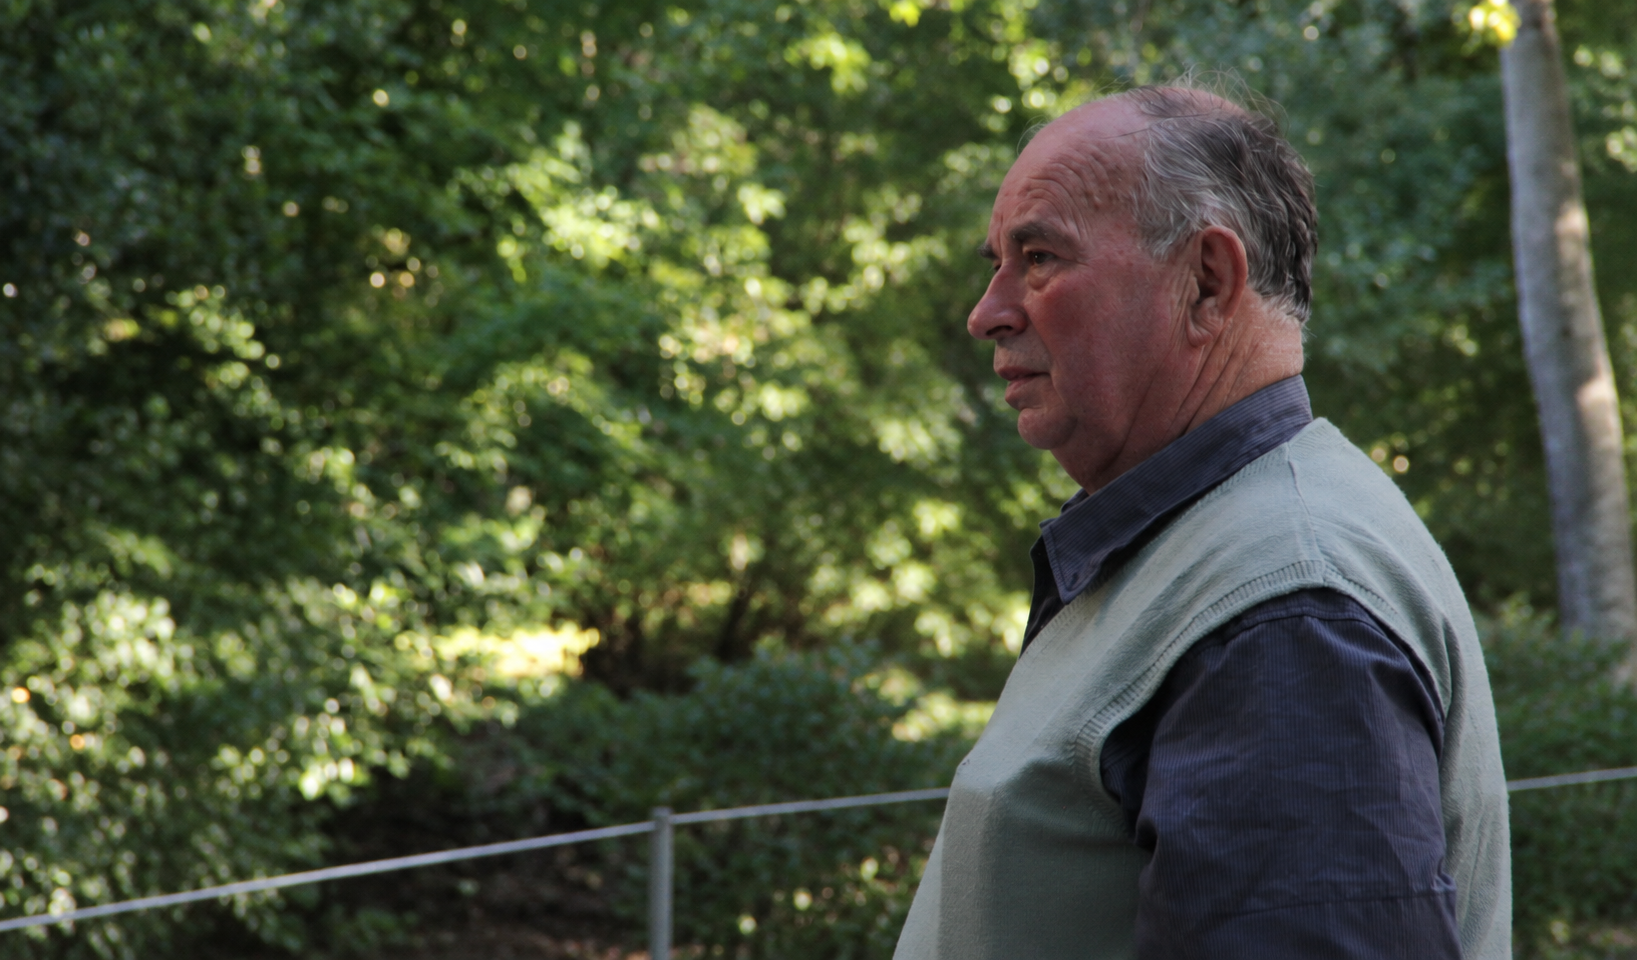
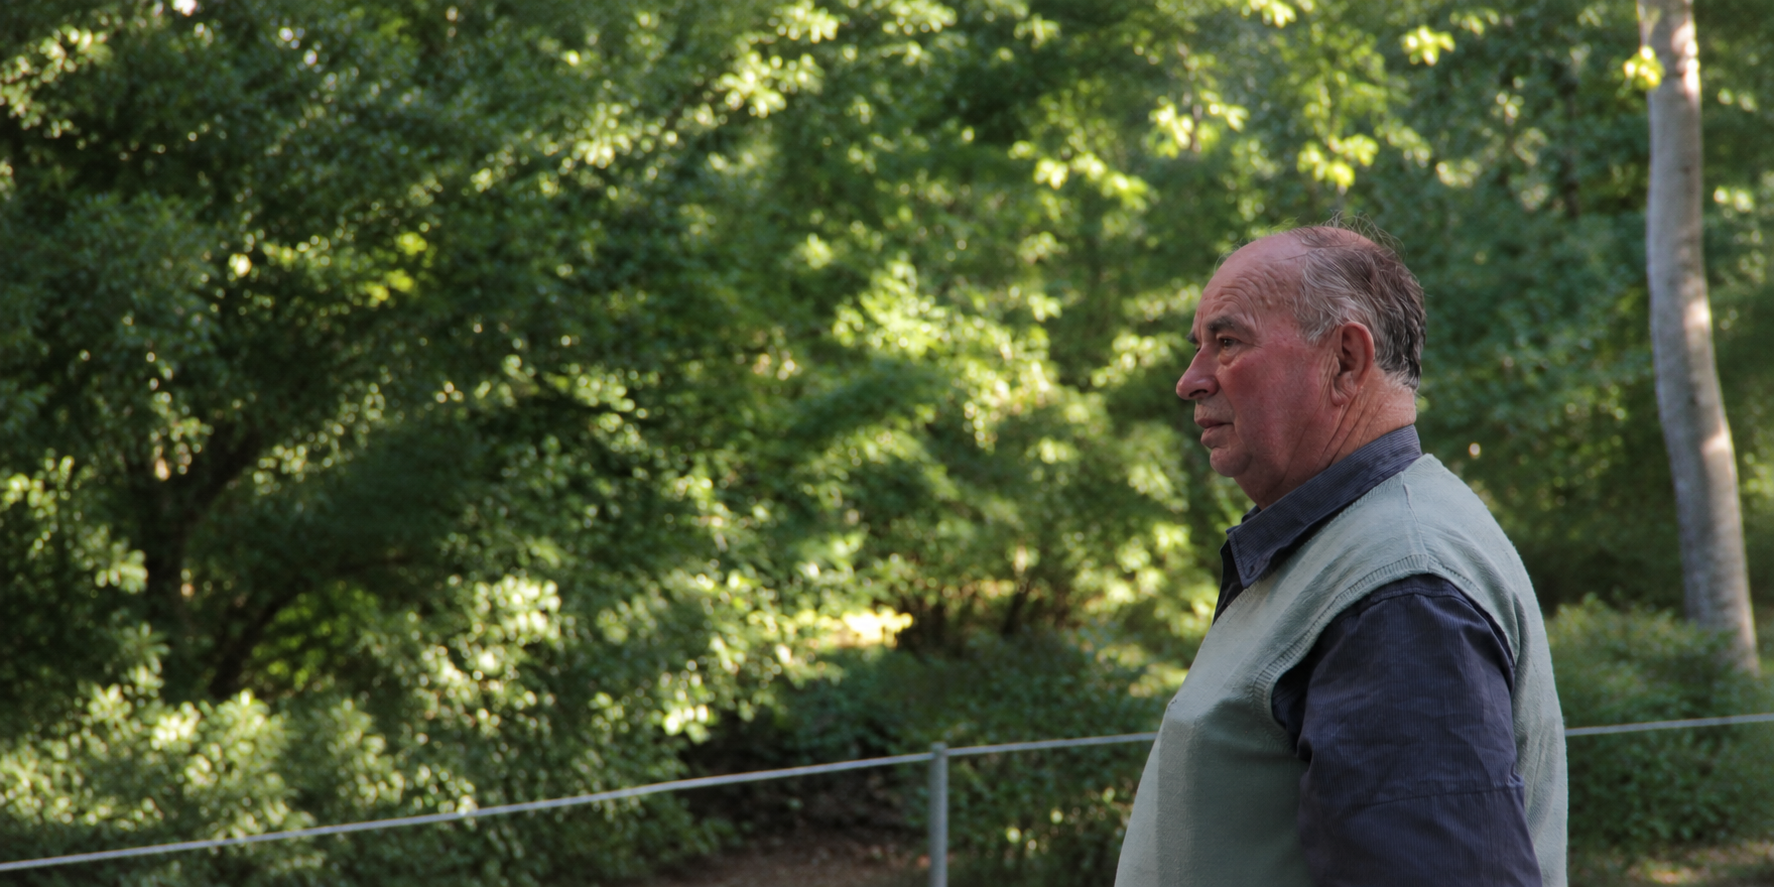
biografías completas

diff --git a/src/data/biografias.js b/src/data/biografias.js
@@ -1,9 +1,16 @@
 // Contenido de las biografías, una entrada por persona (la clave es el slug de personas.js).
 // Si una persona NO está acá, /historia/:slug sigue mostrando la página simple de siempre.
 //
+// hero: { src, alt, posicion, ajuste }
+//   posicion = encuadre del recorte ("center 20%"), solo en modo normal
+//   ajuste   = "contain" muestra la foto ENTERA (sin recortar) con fondo borroso a los costados
+//
 // Cada bloque: texto { es: [párrafos], en: [párrafos] } y, opcionalmente,
-//   imagen:   { src, alt }                         → una imagen
+//   imagen:   { src, alt, pie, ancho }             → una imagen
 //   imagenes: [{ src, alt, proporcion, posicion }] → varias imágenes apiladas
+// En una imagen simple:
+//   pie   = { es, en } texto chico debajo de la imagen (opcional)
+//   ancho = ancho de la imagen dentro de su columna, ej. "62%" (opcional)
 // En imágenes apiladas:
 //   proporcion = ancho / alto del recuadro (más alto el número = recuadro más bajo)
 //   posicion   = encuadre del recorte ("center 0%" arriba ... "center 100%" abajo)
@@ -154,6 +161,148 @@ const biografias = {
             },
           },
         ],
+      },
+    ],
+  },
+
+  "delfina-galvez-bunge": {
+    anios: "1913–2014",
+    subtitulo: {
+      es: "Recuperar una autoría",
+      en: "Recovering an authorship",
+    },
+    hero: {
+      src: "/assets/Delfina/1.png",
+      posicion: "center 45%",
+      alt: {
+        es: "Retrato de Delfina Gálvez Bunge",
+        en: "Portrait of Delfina Gálvez Bunge",
+      },
+    },
+    bloques: [
+      {
+        texto: {
+          es: [
+            "Delfina Gálvez Bunge (1913-2014) fue arquitecta y una de las mujeres pioneras de la arquitectura moderna argentina. Ingresó a la Facultad de Arquitectura de la Universidad de Buenos Aires en 1931 y allí conoció a Amancio Williams, con quien se casó en 1941. Durante los primeros años de su vida profesional trabajaron conjuntamente en diversos proyectos y desarrollaron una práctica en la que arquitectura, equipamiento y paisaje eran pensados de manera integrada.",
+          ],
+          en: [
+            "Delfina Gálvez Bunge (1913-2014) was an architect and one of the pioneering women of Argentine modern architecture. She entered the Faculty of Architecture of the University of Buenos Aires in 1931, where she met Amancio Williams, whom she married in 1941. During the early years of her professional life they worked together on several projects and developed a practice in which architecture, furnishings and landscape were conceived as a whole.",
+          ],
+        },
+        imagen: {
+          src: "/assets/Delfina/3.jpg",
+          alt: {
+            es: "Delfina Gálvez Bunge junto a Amancio Williams",
+            en: "Delfina Gálvez Bunge with Amancio Williams",
+          },
+        },
+      },
+      {
+        texto: {
+          es: [
+            "Durante décadas, buena parte de la historiografía presentó la Casa sobre el Arroyo casi exclusivamente bajo el nombre de Amancio Williams. Sin embargo, investigaciones recientes han revisado esa lectura. La Encyclopédie de l'architecture nouvelle de Alberto Sartoris, publicada en 1948, registró distintos proyectos bajo la autoría conjunta «Amancio Williams et Delfina G. de Williams». Estudios académicos contemporáneos consideran a Delfina coautora de la Casa y han analizado precisamente el proceso por el cual su nombre fue omitido y luego reincorporado a la valoración patrimonial de la obra.",
+          ],
+          en: [
+            "For decades, much of the historiography presented the House Over the Stream almost exclusively under the name of Amancio Williams. Recent research, however, has revised that reading. Alberto Sartoris's Encyclopédie de l'architecture nouvelle, published in 1948, recorded several projects under the joint authorship «Amancio Williams et Delfina G. de Williams». Contemporary academic studies regard Delfina as a co-author of the House and have analyzed precisely the process by which her name was omitted and later reincorporated into the heritage appraisal of the work.",
+          ],
+        },
+        imagen: {
+          src: "/assets/Delfina/4.jfif",
+          alt: {
+            es: "Delfina entre los andamios durante la construcción de la Casa",
+            en: "Delfina among the scaffolding during the construction of the House",
+          },
+        },
+      },
+      {
+        texto: {
+          es: [
+            "La cuestión requiere, al mismo tiempo, cierta delicadeza histórica: la propia Delfina tendió en entrevistas posteriores a minimizar su participación en varias obras de Amancio y, en el caso de la Casa, se atribuyó principalmente intervenciones relacionadas con el mobiliario y el jardín. Esa tensión entre su propio relato y la documentación contemporánea vuelve su figura especialmente interesante. Reconocerla hoy no significa inventar una autoría, sino volver sobre documentos que permiten comprender de manera más completa cómo se produjo la obra.",
+          ],
+          en: [
+            "The question also calls for a certain historical delicacy: in later interviews Delfina herself tended to downplay her participation in several of Amancio's works and, in the case of the House, attributed to herself mainly interventions related to the furniture and the garden. That tension between her own account and the contemporary documentation makes her figure especially interesting. Recognizing her today does not mean inventing an authorship, but returning to documents that allow a fuller understanding of how the work came about.",
+          ],
+        },
+        imagen: {
+          src: "/assets/Delfina/5.png",
+          ancho: "62%",
+          alt: {
+            es: "Tapa del libro «Delfina Bunge. Diarios íntimos de una época brillante», de Lucía Gálvez",
+            en: "Cover of «Delfina Bunge. Diarios íntimos de una época brillante» by Lucía Gálvez",
+          },
+          pie: {
+            es: "Delfina Bunge, madre de la arquitecta. Libro de Lucía Gálvez.",
+            en: "Delfina Bunge, the architect's mother. Book by Lucía Gálvez.",
+          },
+        },
+      },
+    ],
+  },
+
+  "herman-clinckspoor": {
+    subtitulo: {
+      es: "Estudiar para poder preservar",
+      en: "Studying in order to preserve",
+    },
+    hero: {
+      src: "/assets/home/herman.png",
+      posicion: "center 30%",
+      alt: {
+        es: "Herman Clinckspoor en el parque de la Casa sobre el Arroyo",
+        en: "Herman Clinckspoor in the park of the House Over the Stream",
+      },
+    },
+    bloques: [
+      {
+        texto: {
+          es: [
+            "La historia de la preservación de la Casa sobre el Arroyo no se explica únicamente a través de decretos, compras o restauraciones. También depende de personas que, mucho antes de que la recuperación fuera una política pública consolidada, comprendieron el valor excepcional del conjunto y dedicaron años a estudiarlo, registrarlo y defenderlo. Dentro de esa historia, la Asociación considera imprescindible recuperar la figura de Herman Clinckspoor y el trabajo sostenido que desarrolló junto con Graciela Di Iorio y otros especialistas vinculados con la conservación patrimonial.",
+          ],
+          en: [
+            "The history of the preservation of the House Over the Stream cannot be explained only through decrees, purchases or restorations. It also depends on people who, long before recovery became a consolidated public policy, understood the exceptional value of the site and spent years studying, documenting and defending it. Within that history, the Association considers it essential to recover the figure of Herman Clinckspoor and the sustained work he carried out together with Graciela Di Iorio and other specialists in heritage conservation.",
+          ],
+        },
+        imagen: {
+          src: "/assets/Herman/1.png",
+          alt: {
+            es: "Retrato de Herman Clinckspoor",
+            en: "Portrait of Herman Clinckspoor",
+          },
+        },
+      },
+      {
+        texto: {
+          es: [
+            "Según la memoria y la documentación reunida por quienes trabajaron con él, Clinckspoor realizó durante décadas un estudio minucioso de la Casa: sus proporciones, geometrías, relaciones matemáticas, implantación, estructura, paisaje y lógica proyectual. Ese conocimiento acumulado permitió leer aspectos de la obra que no resultaban evidentes a simple vista y constituyó una base para pensar su conservación con fidelidad. Su aporte no debería presentarse solamente como el de un defensor apasionado del edificio, sino también como el de un investigador que produjo herramientas para comprenderlo.",
+          ],
+          en: [
+            "According to the memory and documentation gathered by those who worked with him, Clinckspoor carried out a meticulous study of the House over several decades: its proportions, geometries, mathematical relationships, siting, structure, landscape and design logic. That accumulated knowledge made it possible to read aspects of the work that were not obvious at first sight and became a basis for thinking about its faithful conservation. His contribution should not be presented only as that of a passionate defender of the building, but also as that of a researcher who produced tools for understanding it.",
+          ],
+        },
+        imagen: {
+          src: "/assets/Herman/4.jpg",
+          alt: {
+            es: "Herman Clinckspoor en el campus",
+            en: "Herman Clinckspoor on the campus",
+          },
+        },
+      },
+      {
+        texto: {
+          es: [
+            "Su compromiso se extendió a la defensa de la integridad territorial y ambiental del conjunto. La Casa sobre el Arroyo no puede separarse del parque, del cauce del arroyo, del pabellón de servicio ni de las visuales y recorridos que construyen su experiencia. La preservación de esa unidad fue una batalla sostenida durante años frente al deterioro, el riesgo de fragmentación del terreno y la posibilidad de que el valor inmobiliario terminara imponiéndose sobre el patrimonial. En ese contexto, la acción de Clinckspoor adquiere una dimensión cívica: preservar significaba evitar que una obra irreemplazable terminara reducida a parcelas y recuerdos.",
+          ],
+          en: [
+            "His commitment extended to defending the territorial and environmental integrity of the site. The House Over the Stream cannot be separated from the park, the course of the stream, the service pavilion or the views and routes that shape its experience. Preserving that unity was a battle fought for years against deterioration, the risk of the land being fragmented and the possibility that real estate value would end up prevailing over heritage value. In that context, Clinckspoor's action takes on a civic dimension: to preserve meant preventing an irreplaceable work from being reduced to lots and memories.",
+          ],
+        },
+        imagen: {
+          src: "/assets/Herman/6.png",
+          alt: {
+            es: "Herman Clinckspoor junto a un grupo de visitantes en el parque",
+            en: "Herman Clinckspoor with a group of visitors in the park",
+          },
+        },
       },
     ],
   },

diff --git a/src/pages/Persona/Biografia.jsx b/src/pages/Persona/Biografia.jsx
@@ -13,13 +13,31 @@ export default function Biografia({ persona, bio }) {
 
   return (
     <article className={styles.page}>
-      {bio.hero && (
-        <img
-          className={styles.hero}
-          src={bio.hero.src}
-          alt={bio.hero.alt?.[lang] ?? persona.nombre}
-        />
-      )}
+      {bio.hero &&
+        (bio.hero.ajuste === "contain" ? (
+          // Foto completa (sin recortar) con fondo borroso de la misma imagen
+          <div
+            className={styles.heroContain}
+            style={{ "--hero-bg": `url("${bio.hero.src}")` }}
+          >
+            <img
+              className={styles.heroContainImg}
+              src={bio.hero.src}
+              alt={bio.hero.alt?.[lang] ?? persona.nombre}
+            />
+          </div>
+        ) : (
+          <img
+            className={styles.hero}
+            src={bio.hero.src}
+            alt={bio.hero.alt?.[lang] ?? persona.nombre}
+            style={
+              bio.hero.posicion
+                ? { objectPosition: bio.hero.posicion }
+                : undefined
+            }
+          />
+        ))}
 
       <div className={styles.wrap}>
         <nav className={styles.breadcrumb} aria-label="Breadcrumb">
@@ -62,7 +80,15 @@ export default function Biografia({ persona, bio }) {
                 {imagenes.length > 0 && (
                   <div className={styles.imagenes}>
                     {imagenes.map((img, k) => (
-                      <figure key={k} className={styles.imagen}>
+                      <figure
+                        key={k}
+                        className={styles.imagen}
+                        style={
+                          img.ancho
+                            ? { width: img.ancho, marginInline: "auto" }
+                            : undefined
+                        }
+                      >
                         <img
                           src={img.src}
                           alt={img.alt?.[lang] ?? ""}
@@ -76,6 +102,11 @@ export default function Biografia({ persona, bio }) {
                               : undefined
                           }
                         />
+                        {img.pie && (
+                          <figcaption className={styles.pie}>
+                            {img.pie[lang]}
+                          </figcaption>
+                        )}
                       </figure>
                     ))}
                   </div>

diff --git a/src/pages/Persona/Biografia.module.css b/src/pages/Persona/Biografia.module.css
@@ -5,13 +5,40 @@
   padding-bottom: 8vh;
 }
 
-/* ---------- Imagen principal ---------- */
+/* ---------- Imagen principal (recortada para llenar el ancho) ---------- */
 .hero {
   display: block;
   width: 100%;
   aspect-ratio: 21 / 10;
   max-height: 70vh;
   object-fit: cover;
+  object-position: center;
+}
+
+/* ---------- Imagen principal completa (ajuste: "contain") ----------
+   La foto se ve entera; los costados se rellenan con la misma imagen desenfocada. */
+.heroContain {
+  position: relative;
+  width: 100%;
+  height: clamp(300px, 66vh, 660px);
+  overflow: hidden;
+  background: #d9d9d9;
+}
+.heroContain::before {
+  content: "";
+  position: absolute;
+  inset: -40px; /* evita bordes claros por el desenfoque */
+  background-image: var(--hero-bg);
+  background-size: cover;
+  background-position: center;
+  filter: blur(28px);
+}
+.heroContainImg {
+  position: relative;
+  display: block;
+  width: 100%;
+  height: 100%;
+  object-fit: contain;
   object-position: center;
 }
 
@@ -118,6 +145,14 @@
   height: auto;
 }
 
+/* Pie de foto (opcional) */
+.pie {
+  margin-top: 8px;
+  font-size: 0.9rem;
+  line-height: 1.35;
+  color: #4a4b4e;
+}
+
 /* Imágenes apiladas: el recuadro (aspect-ratio) y el encuadre (object-position)
    se definen por imagen en biografias.js; aquí solo se recorta para llenarlo. */
 .variasImagenes .imagen img {
@@ -128,6 +163,9 @@
 @media (max-width: 760px) {
   .hero {
     aspect-ratio: 4 / 3;
+  }
+  .heroContain {
+    height: clamp(240px, 45vh, 400px);
   }
   .bloque {
     grid-template-columns: 1fr;

diff --git a/src/data/personas.js b/src/data/personas.js
@@ -8,8 +8,8 @@ const personas = [
     años: "",
     foto: "",
     rol: {
-      es: "Arquitecto de la Casa sobre el Arroyo.",
-      en: "Architect of the House Over the Stream.",
+      es: "Arquitecto",
+      en: "Architect",
     },
     texto: {
       es: "Contenido pendiente.",
@@ -22,8 +22,8 @@ const personas = [
     años: "",
     foto: "",
     rol: {
-      es: "Rol pendiente.",
-      en: "Role to be defined.",
+      es: "Investigaciones",
+      en: "Research",
     },
     texto: {
       es: "Contenido pendiente.",
@@ -36,8 +36,8 @@ const personas = [
     años: "",
     foto: "",
     rol: {
-      es: "Rol pendiente.",
-      en: "Role to be defined.",
+      es: "Arquitecta",
+      en: "Architect",
     },
     texto: {
       es: "Contenido pendiente.",
@@ -50,8 +50,8 @@ const personas = [
     años: "",
     foto: "",
     rol: {
-      es: "Rol pendiente.",
-      en: "Role to be defined.",
+      es: "Músico. Propietario de la casa",
+      en: "Musician. Owner of the house",
     },
     texto: {
       es: "Contenido pendiente.",

diff --git a/src/pages/Home.jsx b/src/pages/Home.jsx
@@ -92,7 +92,7 @@ function Tile({ to, img, title, sub, text }) {
 }
 
 export default function Home() {
-  const { t } = useLanguage();
+  const { t, lang } = useLanguage();
   const videoRef = useRef(null);
   const [muted, setMuted] = useState(true);
   const [playing, setPlaying] = useState(true);
@@ -252,6 +252,7 @@ export default function Home() {
               to={`/historia/${p.slug}`}
               img={fotoDe(p)}
               title={p.nombre}
+              sub={p.rol[lang]}
             />
           ))}
         </Carousel>
